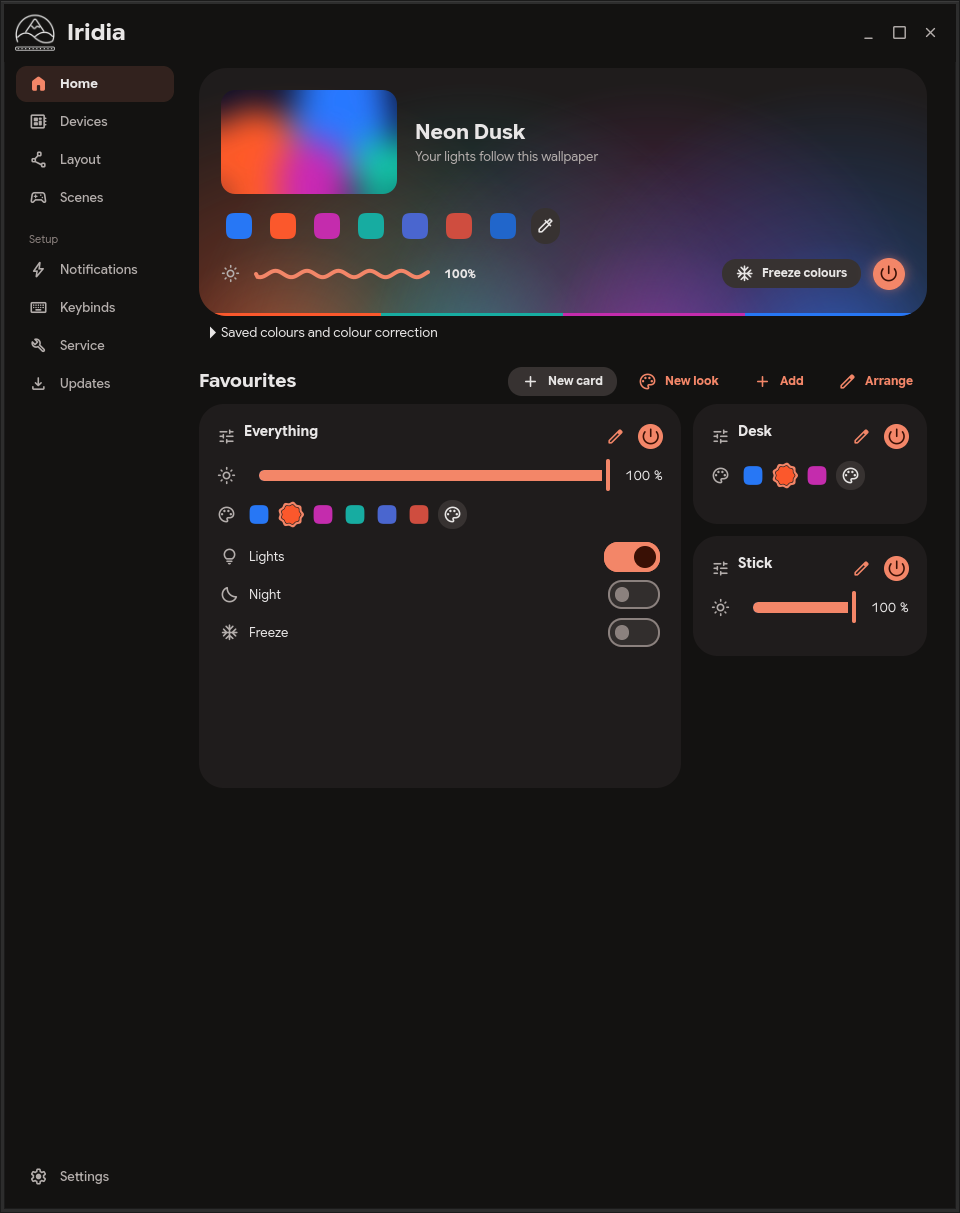
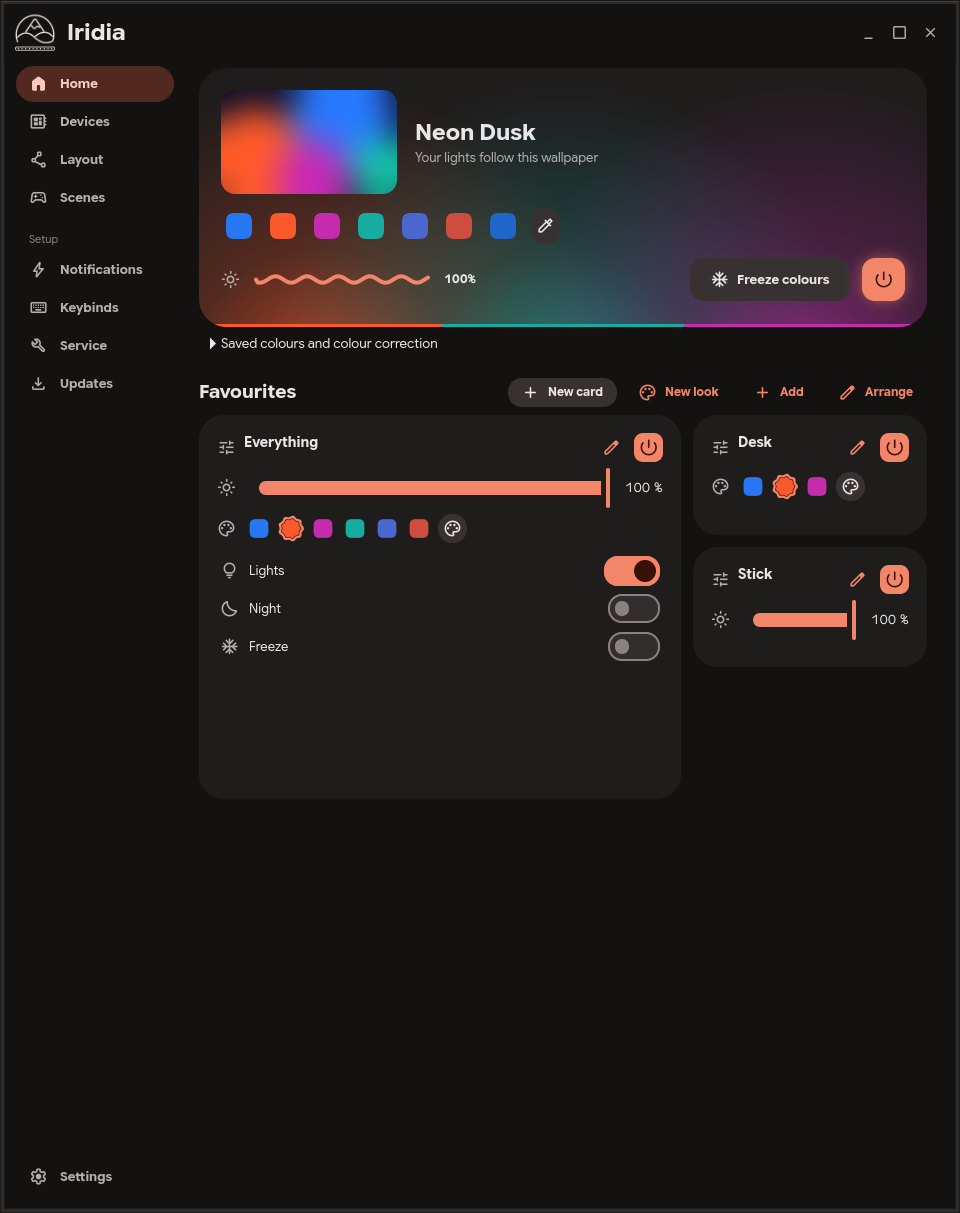
Material 3 Expressive touches, and smoother page switches
- Devices: a device's strips are one segmented group (2px gaps, 16px outer corners, 4px inner,
  an open row fully rounded and lighter), as M3 Expressive lists.
- Rail: the selected page sits on a full pill in the primary container colour; it fades in
  place and the label keeps its weight, so nothing shifts.
- Power buttons are M3 Expressive toggle icon buttons: round and outlined when off, a filled
  square when on; the lights' power on Home is the medium size, and so is Freeze.
- Sliders: 16px track, 4x44px handle with a 6px gap; headings use a heavier weight.
- Pages switch without a crossfade, which drew two pages every frame. Measured in software
  rendering: rail switches 4.5 ms median per frame, power toggles 4.3 ms, opening a row 7.3 ms.
- README screenshots updated.

Claude-Session: https://claude.ai/code/session_01MLS2YgJuJgrdD96pU5WbXt

diff --git a/iridia/ui/style.py b/iridia/ui/style.py
@@ -38,7 +38,7 @@ headerbar windowcontrols button image {{ -gtk-icon-size: 16px; }}
 .winctl > button.close:active {{ background: {ERROR_CONTAINER}; color: {ON_ERROR_CONTAINER}; }}
 .app-title {{ font-size: 24px; font-weight: 700; color: {ON_SURFACE}; }}
 .display {{ font-size: 28px; font-weight: 700; }}
-.title {{ font-size: 20px; font-weight: 700; }}
+.title {{ font-size: 20px; font-weight: 800; }}
 .heading {{ font-size: 15px; font-weight: 700; }}
 .subheading {{ font-size: 13px; font-weight: 600; }}
 .body {{ font-size: 14px; }}
@@ -62,17 +62,19 @@ label > selection, text > selection, entry > text > selection {{ background: alp
 /* ---------- the side rail: daily pages, then the ones you set up once ---------- */
 .rail {{ padding: 4px 8px 14px 12px; min-width: 176px; }}
 .rail.tight {{ min-width: 0; padding: 4px 4px 14px 8px; }}
-.rail > button {{ background: transparent; color: {ON_SURFACE_VARIANT}; border-radius: 12px; min-height: 40px;
-  padding: 0 14px; font-weight: 500; transition: background-color 160ms {EASE_STD}, color 160ms; }}
+.rail > button {{ background: transparent; color: {ON_SURFACE_VARIANT}; border-radius: 20px; min-height: 40px;
+  padding: 0 14px; font-weight: 600; transition: background-color 180ms {EASE_STD}, color 180ms {EASE_STD}; }}
 .rail.tight > button {{ padding: 0 10px; }}
 .rail > button:hover {{ background: alpha({ON_SURFACE}, 0.06); color: {ON_SURFACE}; }}
-.rail > button:active {{ border-radius: 12px; }}
-.rail > button:checked {{ background: alpha({PRIMARY}, 0.14); color: {ON_SURFACE}; font-weight: 600; }}
-.rail > button:checked .icon {{ color: {PRIMARY}; font-variation-settings: "FILL" 1, "wght" 500, "opsz" 24; }}
+.rail > button:active {{ border-radius: 20px; }}
+/* M3 rail: the active indicator is a full pill in the primary container colour */
+.rail > button:checked {{ background: {PRIMARY_CONTAINER}; color: {ON_PRIMARY_CONTAINER}; }}
+.rail > button:checked:hover {{ background: {PRIMARY_CONTAINER}; }}
+.rail > button:checked .icon {{ color: {ON_PRIMARY_CONTAINER}; font-variation-settings: "FILL" 1, "wght" 500, "opsz" 24; }}
 .rail-head {{ margin: 16px 0 4px 14px; }}
 
 /* ---------- Home: the backlight ---------- */
-.display-s {{ font-size: 22px; font-weight: 650; }}
+.display-s {{ font-size: 24px; font-weight: 800; }}
 .thumb {{ border-radius: 14px; }}
 expander.plain-expander title > label {{ color: {ON_SURFACE_VARIANT}; font-weight: 500; }}
 
@@ -115,16 +117,21 @@ button.small {{ min-height: 32px; padding: 0 14px; font-size: 13px; border-radiu
 button.small:active {{ border-radius: 8px; }}
 button.circle {{ padding: 0; min-width: 40px; min-height: 40px; border-radius: 20px; }}
 button.circle.small {{ min-width: 32px; min-height: 32px; border-radius: 16px; }}
-button.circle.small.power, button.circle.small.power:active {{ min-width: 28px; min-height: 28px; padding: 0;
-    border-radius: 14px; }}
-/* power: lit in the light's own colour when on, an empty ring when off */
-button.circle.small.power.on {{ background: {PRIMARY}; color: {ON_PRIMARY}; }}
-button.circle.small.power.on.glow {{ box-shadow: 0 0 14px alpha({PRIMARY}, 0.6); min-width: 36px; min-height: 36px;
-  border-radius: 18px; }}
+button.circle.small.power, button.circle.small.power:active {{ min-width: 32px; min-height: 32px; padding: 0;
+    border-radius: 16px; transition: border-radius 320ms {EASE}, background-color 180ms {EASE_STD}, color 180ms {EASE_STD}; }}
+/* power, an M3 Expressive toggle icon button: round and outlined when off, a filled square in the accent when on */
+button.circle.small.power.on {{ background: {PRIMARY}; color: {ON_PRIMARY}; border-radius: 10px; }}
 button.circle.small.power.on:hover {{ background: {PRIMARY_HOVER}; }}
-button.circle.small.power.off {{ background: transparent; color: {ON_SURFACE_VARIANT};
+button.circle.small.power.off {{ background: transparent; color: {ON_SURFACE_VARIANT}; border-radius: 16px;
   box-shadow: inset 0 0 0 2px {OUTLINE_VARIANT}; }}
 button.circle.small.power.off:hover {{ background: alpha({ON_SURFACE}, 0.08); color: {ON_SURFACE}; }}
+button.circle.small.power.on:active, button.circle.small.power.off:active {{ border-radius: 8px; }}
+/* the lights' power on Home is the medium size */
+button.circle.small.power.glow {{ min-width: 48px; min-height: 48px; border-radius: 24px; }}
+button.circle.small.power.glow.on {{ border-radius: 14px; box-shadow: 0 0 16px alpha({PRIMARY}, 0.55); }}
+button.circle.small.power.glow:active {{ border-radius: 12px; }}
+button.medium {{ min-height: 48px; padding: 0 22px; border-radius: 16px; }}
+button.medium:active {{ border-radius: 12px; }}
 button.circle:active {{ border-radius: 10px; }}
 button.fab {{ min-height: 56px; padding: 0 24px; border-radius: 18px; font-size: 15px;
   box-shadow: 0 6px 18px rgba(0,0,0,0.4); }}
@@ -156,7 +163,14 @@ flowbox.wrap-row > flowboxchild {{ padding: 0; background: none; border-radius: 
 .plain-page > .card {{ background: transparent; border-radius: 0; padding: 6px 4px 22px 4px;
   border-bottom: 1px solid {OUTLINE_VARIANT}; }}
 .plain-page > .card .card-inner {{ background: {SURFACE_CONTAINER}; }}
-.row-card {{ border-radius: 20px; padding: 12px 16px; }}
+/* M3 Expressive segmented list: a device's strips are one group, 2px apart; big corners outside, small inside.
+   An open row is fully rounded. Only corners and colour animate (no size changes, so nothing jumps). */
+.row-card {{ border-radius: 4px; padding: 12px 16px; transition: border-radius 320ms {EASE}, background-color 180ms {EASE_STD}; }}
+.row-card.seg-first {{ border-top-left-radius: 16px; border-top-right-radius: 16px; }}
+.row-card.seg-last {{ border-bottom-left-radius: 16px; border-bottom-right-radius: 16px; }}
+.row-card:hover {{ background: mix({SURFACE_CONTAINER}, {ON_SURFACE}, 0.04); }}
+.row-card.open {{ border-radius: 16px; background: {SURFACE_CONTAINER_HIGH}; }}
+.row-card.open scale slider {{ box-shadow: 0 0 0 6px {SURFACE_CONTAINER_HIGH}; }}
 popover button.menu-item {{ background: transparent; color: {ON_SURFACE}; border-radius: 10px; min-height: 36px; }}
 popover button.menu-item:hover {{ background: {SECONDARY_CONTAINER}; }}
 menubutton.flat-menu > button {{ background: transparent; min-height: 32px; min-width: 32px; padding: 0;
@@ -215,12 +229,12 @@ popover listview row:hover, popover modelbutton:hover {{ background: {SECONDARY_
 popover listview row:selected {{ background: {SECONDARY_CONTAINER}; color: {ON_SECONDARY_CONTAINER}; }}
 
 scale {{ padding: 10px 6px; }}
-scale trough {{ background: {SECONDARY_CONTAINER}; border-radius: 999px; min-height: 12px; border: none; }}
-scale highlight {{ background: {PRIMARY}; border-radius: 999px; min-height: 12px; }}
-scale slider {{ background: {PRIMARY}; border: none; box-shadow: 0 0 0 4px {SURFACE_CONTAINER}; border-radius: 3px;
-  min-width: 4px; min-height: 36px; margin: -12px 0; transition: min-width 200ms {EASE_STD}; }}
+scale trough {{ background: {SECONDARY_CONTAINER}; border-radius: 999px; min-height: 16px; border: none; }}
+scale highlight {{ background: {PRIMARY}; border-radius: 999px; min-height: 16px; }}
+scale slider {{ background: {PRIMARY}; border: none; box-shadow: 0 0 0 6px {SURFACE_CONTAINER}; border-radius: 2px;
+  min-width: 4px; min-height: 44px; margin: -14px 0; transition: min-width 120ms {EASE_STD}; }}
 scale slider:active {{ min-width: 2px; }}
-.card-inner scale slider {{ box-shadow: 0 0 0 4px {SURFACE_CONTAINER_HIGH}; }}
+.card-inner scale slider {{ box-shadow: 0 0 0 6px {SURFACE_CONTAINER_HIGH}; }}
 
 checkbutton {{ padding: 4px 0; }}
 checkbutton check, checkbutton radio {{ background: transparent; border: 2px solid {ON_SURFACE_VARIANT}; box-shadow: none;

diff --git a/iridia/ui/app.py b/iridia/ui/app.py
@@ -394,8 +394,9 @@ class IridiaWindow(Gtk.ApplicationWindow):
         rail = vbox(2)
         rail.add_css_class("rail")
         self._rail = rail
-        self._stack = Gtk.Stack(vexpand=True, hexpand=True, transition_type=Gtk.StackTransitionType.CROSSFADE,
-                                transition_duration=160)
+        # pages switch at once: a crossfade draws two whole pages every frame (four times the work, and
+        # visible stutter on a slower GPU); the rail's own highlight fade says which page you picked
+        self._stack = Gtk.Stack(vexpand=True, hexpand=True, transition_type=Gtk.StackTransitionType.NONE)
         self._stack.set_hhomogeneous(False)      # only the page on show sets how narrow the window can be
         self._tabs = {}
         self._rail_heads = []
@@ -559,7 +560,6 @@ class IridiaWindow(Gtk.ApplicationWindow):
     def _tab_toggled(self, b, key):
         if not b.get_active():
             return
-        self._stack.set_transition_duration(160 if widgets.motion() else 0)
         self._stack.set_visible_child_name(key)
         self._layout_tab.set_visible_tab(key == "layout")
 
@@ -829,6 +829,8 @@ class IridiaWindow(Gtk.ApplicationWindow):
         self._global_card.sync_from_status(merged, extracted, custom, mixed)
         if getattr(self, "_ddc_menu", None):
             self._global_card.set_monitors(*self._ddc_menu)
+        self._global_card.add_css_class("seg-first")
+        self._global_card.add_css_class("seg-last")
         self._dev_box.append(self._global_card)
         hidden_box = vbox(10)
         n_hidden = 0
@@ -853,15 +855,22 @@ class IridiaWindow(Gtk.ApplicationWindow):
                     box.append(head)
                 else:
                     box.append(Gtk.Box(height_request=4))
-                for z, zc in group:
+                # a device's strips are one group: rows 2px apart, the group's ends rounded
+                seg = vbox(2)
+                box.append(seg)
+                for pos, (z, zc) in enumerate(group):
                     key = f"{d}|{z}"
                     cardw = ZoneCard(self, d, z or d, zc, extracted, custom, self.client,
                                      expanded=expanded.get(key, False), kind=None if zones else sub)
                     cardw.zone_name = z
+                    if pos == 0:
+                        cardw.add_css_class("seg-first")
+                    if pos == len(group) - 1:
+                        cardw.add_css_class("seg-last")
                     if box is hidden_box:
                         cardw.set_opacity(0.7)
                         n_hidden += 1
-                    box.append(cardw)
+                    seg.append(cardw)
                     self._zone_cards[key] = cardw
         if n_hidden:
             exp = Gtk.Expander(label=ngettext("Hidden ({n})", "Hidden ({n})", n_hidden).format(n=n_hidden),

diff --git a/iridia/ui/zonecard.py b/iridia/ui/zonecard.py
@@ -209,6 +209,8 @@ class ZoneCard(Gtk.Box):
         self._preview_last = None
         self._sections = None
         self._build_header(expanded)
+        if expanded:
+            self.add_css_class("open")
         self._build_details()
         self._refresh_summary()
         self._apply_color_limit()
@@ -328,6 +330,7 @@ class ZoneCard(Gtk.Box):
     def _toggle_expand(self):
         on = not self._rev.get_reveal_child()
         self._rev.set_reveal_child(on)
+        (self.add_css_class if on else self.remove_css_class)("open")
         self._chev.set_label(fonts.codepoint("expand_less" if on else "expand_more"))
         if on:
             GLib.idle_add(lambda: (self._ensure_preview(), False)[1])

diff --git a/iridia/ui/home.py b/iridia/ui/home.py
@@ -204,7 +204,7 @@ class Hero(Gtk.Overlay):
         self.bright.set_width_chars(4)
         bottom.append(self.bright)
         bottom.append(Gtk.Box(hexpand=True))
-        app._freeze_btn = button(_("Freeze colours"), "ac_unit", "tonal small", app._toggle_freeze,
+        app._freeze_btn = button(_("Freeze colours"), "ac_unit", "tonal medium", app._toggle_freeze,
                                  tooltip=_("Keep these colours when the wallpaper changes"))
         app._freeze_btn.set_valign(Gtk.Align.CENTER)
         bottom.append(app._freeze_btn)

diff --git a/CHANGELOG.md b/CHANGELOG.md
@@ -19,6 +19,12 @@ A new look for the window: quieter, so your lights' own colours are what stands 
   window updates itself), and Ctrl+Q closes the window like its close button.
 - **Calmer colours:** grey surfaces instead of tinted ones, the accent only where there's light, power
   buttons lit in it when on (no pastel green and red), and a blue window until there are colours.
+- **Material 3 Expressive touches:** a device's strips are one grouped list (2px apart, rounded at the
+  group's ends, an open row fully rounded); the selected page in the rail sits on a pill; power buttons
+  are round and outlined when off and a filled square when on; sliders have a 16px track with a gap
+  round a thin handle; headings are heavier; Freeze and the lights' power on Home are the bigger size.
+- **Smooth:** pages switch at once instead of crossfading (which drew two whole pages every frame), and
+  only colours and corners animate, so nothing jumps; every frame measured well within 60 fps.
 - Set-up pages use plain sections instead of boxes, shorter texts, and the status chip only shows when
   something needs you. The wallpaper picture stays sharp on HiDPI screens.
 
